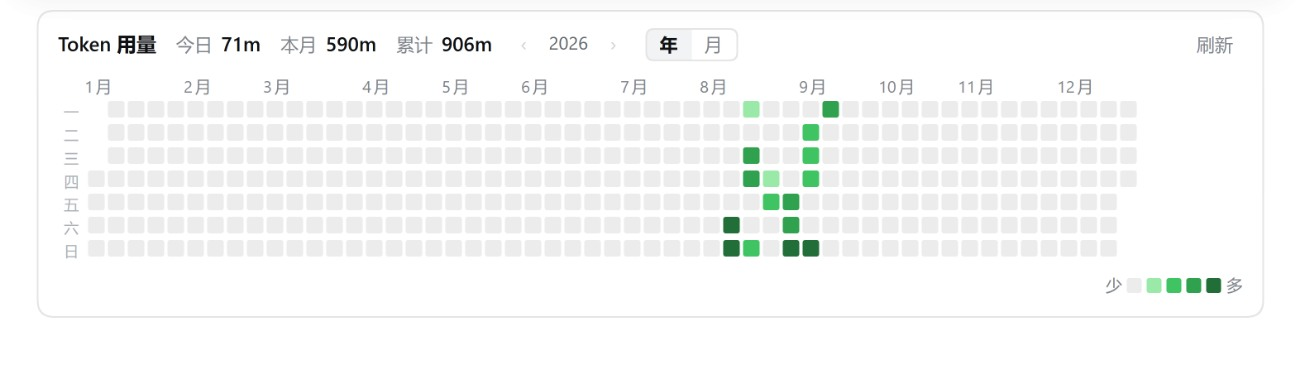
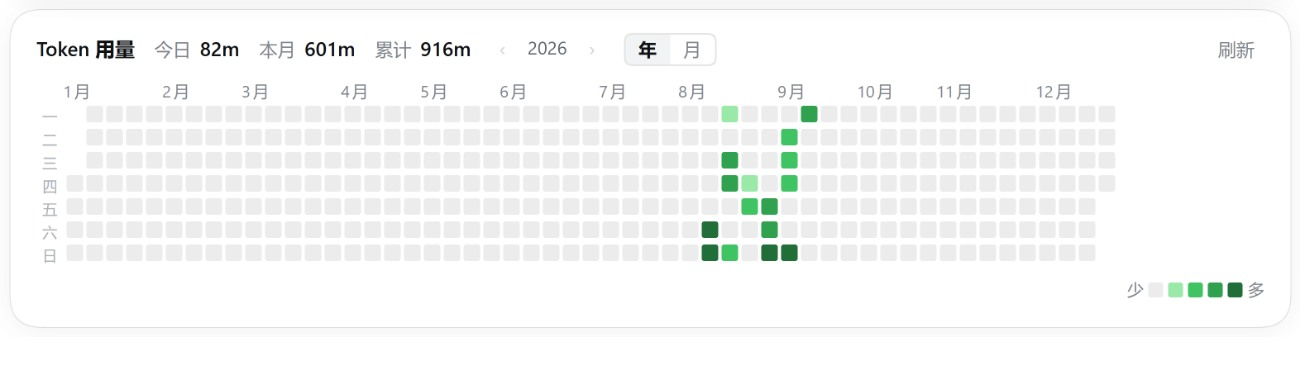
style: match the heatmap card surface to the composer card
The card sat under the composer as a visibly different surface: a hard 1px
border, 12px corners and a 32px-narrower box, so its title did not line up with
the composer's placeholder and the two cards read as unrelated widgets.

Measured the composer's computed styles and matched them:

- 22px radius, no border — the edge is now the same hairline + soft drop
  (`0 0 0 .5px rgba(0,0,0,.1)` plus the two faint 16/24px blurs).
- Dock loses its 16px horizontal padding, so the card is exactly as wide as and
  flush-aligned with the composer card (774px at this viewport); the card
  supplies the 16px inset itself, which also lines the title, the calendar's
  weekday rail and the day cells up with the composer's placeholder text.
- Inner padding 14px 16px 16px and the calendar spans the full content width;
  the 8px stack gap is unchanged, matching the composer stack rhythm.

Screenshots regenerated from the live GUI.

diff --git a/lib/client.js b/lib/client.js
@@ -38,8 +38,12 @@ window.__ModuleLoader__.load({
 
 		//#region css
 		const css = [
-			".thm_dock{box-sizing:border-box;width:100%;max-width:var(--dsh-composer-card-max-width,780px);margin:0 auto;padding:0 16px 2px}",
-			".thm_card{box-sizing:border-box;border:1px solid var(--dsw-alias-border-l2);background:var(--dsw-alias-bg-base);border-radius:12px;padding:10px 12px 12px;display:flex;flex-direction:column;gap:8px}",
+			// Surface matched to the composer card above it (measured computed
+			// styles): same 22px radius, no hard border — the edge is the same
+			// hairline + soft drop the composer uses — and the same 16px inner
+			// inset, so the card's text lines up with the composer's placeholder.
+			".thm_dock{box-sizing:border-box;width:100%;max-width:var(--dsh-composer-card-max-width,780px);margin:0 auto;padding:0;display:flex;flex-direction:column;gap:8px}",
+			".thm_card{box-sizing:border-box;background:var(--dsw-alias-bg-base);border:none;border-radius:22px;box-shadow:0 0 0 .5px rgba(0,0,0,.1),0 4px 16px rgba(0,0,0,.03),0 0 24px rgba(0,0,0,.03);padding:14px 16px 16px;display:flex;flex-direction:column;gap:8px}",
 			".thm_head{flex-wrap:wrap;align-items:baseline;gap:4px 12px;display:flex}",
 			".thm_title{color:var(--dsw-alias-label-primary);font-size:12px;font-weight:600;line-height:18px}",
 			".thm_stat{color:var(--dsw-alias-label-tertiary);font-size:11px;line-height:16px}",
@@ -66,10 +70,12 @@ window.__ModuleLoader__.load({
 			".thm_row{display:flex;gap:2px}",
 			".thm_rowLabel{color:var(--dsw-alias-label-caption);width:16px;flex:none;font-size:9px;line-height:12px;text-align:center}",
 			".thm_cell{box-sizing:border-box;width:10px;height:10px;border-radius:2px;flex:none}",
+			// The calendar spans the card's full content width, so the weekday
+			// rail (一) starts exactly under the "Token 用量" title.
 			".thm_monthCal{display:flex;flex-direction:column;gap:3px}",
-			".thm_weekHead{margin-left:20px;display:flex;gap:4px}",
-			".thm_weekHeadCell{color:var(--dsw-alias-label-caption);flex:1;min-width:0;font-size:9px;line-height:12px;text-align:center}",
-			".thm_week{margin-left:20px;display:flex;gap:4px}",
+			".thm_weekHead{display:flex;gap:4px}",
+			".thm_weekHeadCell{color:var(--dsw-alias-label-tertiary);flex:1;min-width:0;font-size:9px;line-height:12px;text-align:center}",
+			".thm_week{display:flex;gap:4px}",
 			".thm_day{box-sizing:border-box;flex:1;min-width:0;height:38px;border-radius:5px;flex-direction:column;align-items:center;justify-content:center;gap:1px;display:flex}",
 			".thm_day[data-weekend=true]:not([data-empty=true]){background-color:var(--dsw-alias-interactive-bg-hover)}",
 			".thm_dayNum{color:var(--dsw-alias-label-secondary);font-size:11px;line-height:13px;font-variant-numeric:tabular-nums}",
